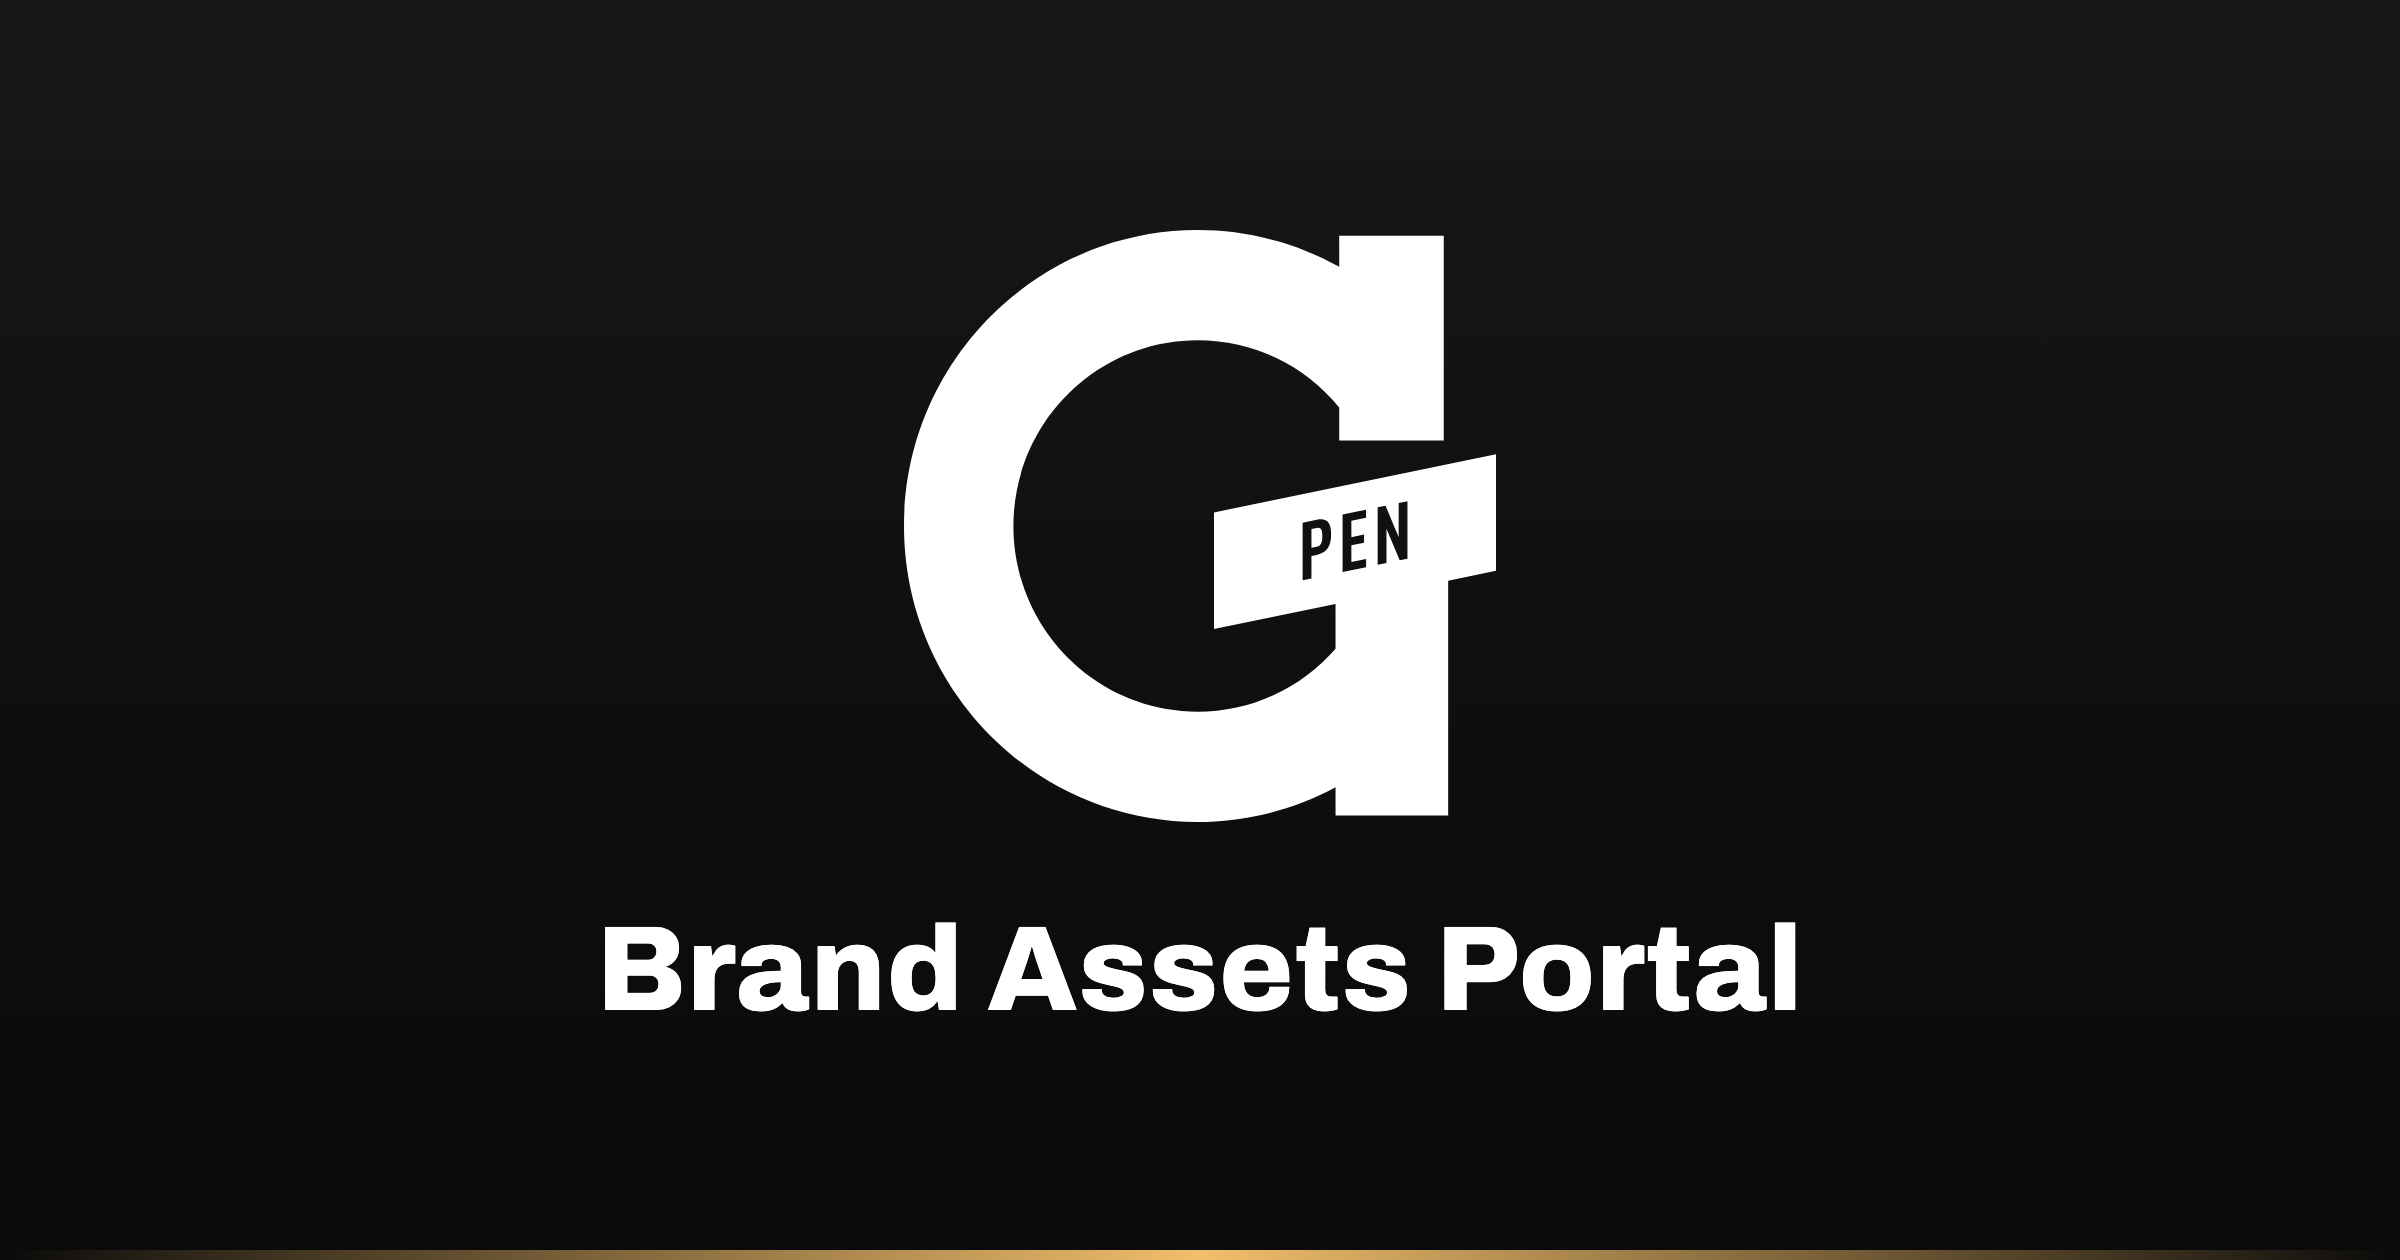
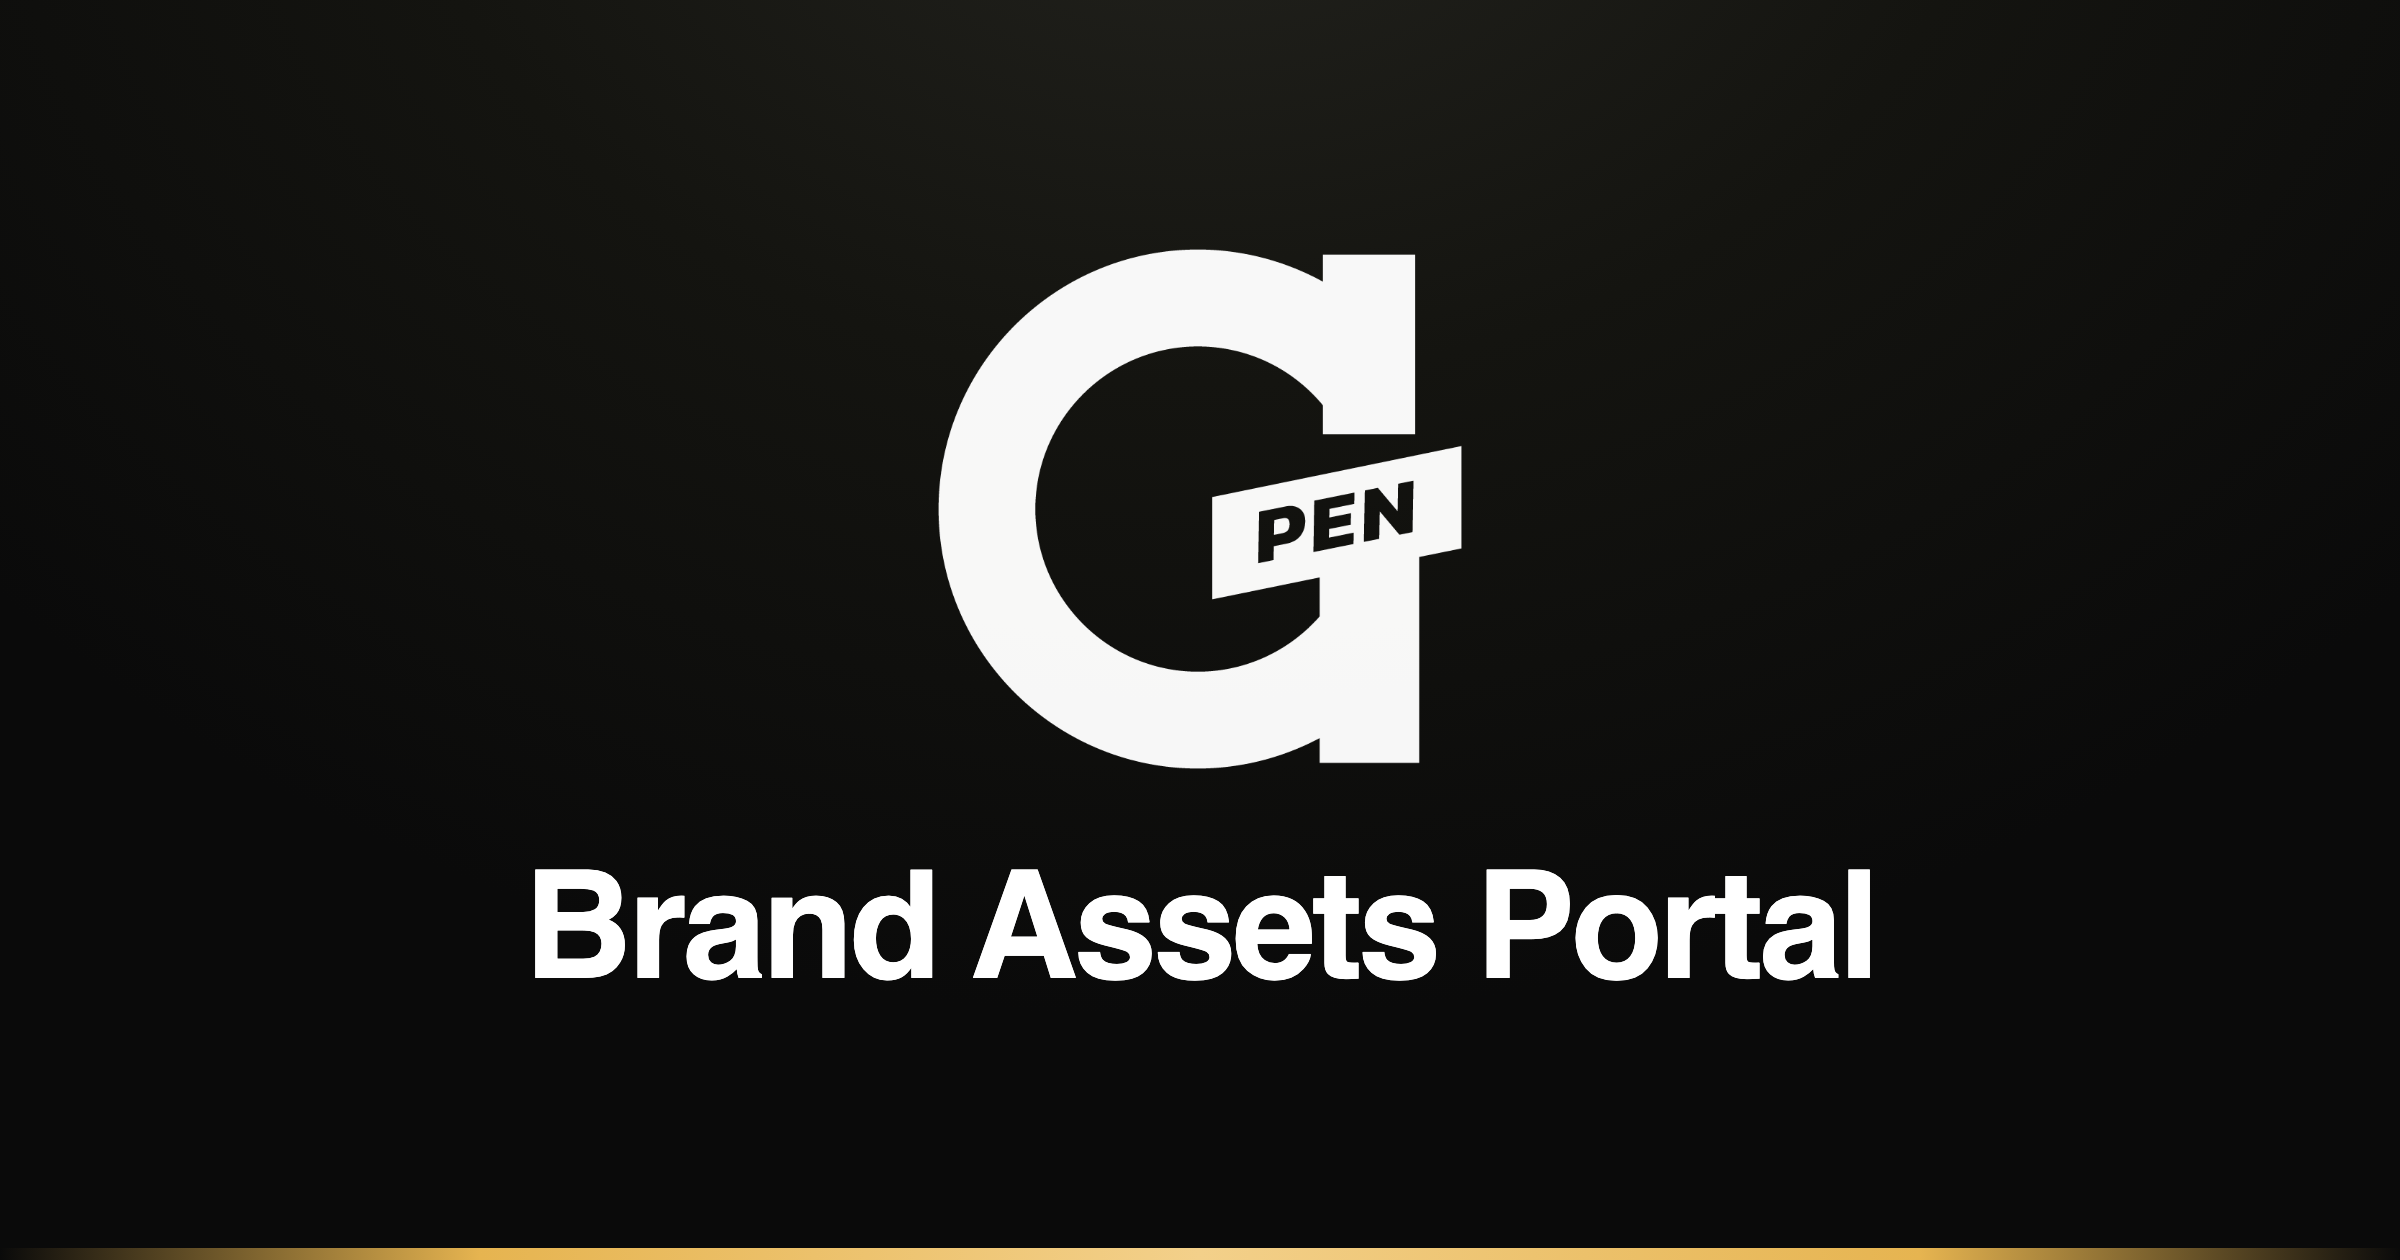
Brand: swap in the new official G Pen brandmark everywhere
- Add official brandmark PNGs (assets/img/gpen-g-black.png / -white.png)
- Hero + nav top-left icon now use the new mark (white on dark)
- Certificate logo (on-page + downloadable canvas) uses the new mark (black on light)
- Adaptive favicon.svg: black on light browser tabs, white on dark
- Regenerate the social share card (og-card.png) with the new logo

diff --git a/assets/js/app.js b/assets/js/app.js
@@ -57,7 +57,9 @@
     return '<svg viewBox="0 0 24 24" fill="none" stroke="currentColor" stroke-width="1.8" stroke-linecap="round" stroke-linejoin="round" aria-hidden="true">' + (paths[name] || "") + "</svg>";
   }
   var typeIcon = { image: "photo", video: "video", vector: "vector", pdf: "file" };
-  var GPEN_LOGO_D = "M51.0273179,27.4819797 L50.1349371,27.6652401 L50.1349371,31.1308145 L48.8040952,27.9382414 L48.0061834,28.1019793 L48.0061834,33.9363994 L48.8988765,33.7518794 L48.8988765,30.2867774 L50.2381504,33.4768314 L51.0273179,33.3152977 L51.0273179,27.4819797 Z M46.8327378,28.3453819 L44.4496204,28.8351784 L44.4496204,34.668339 L46.8327378,34.1785425 L46.8327378,33.3513515 L45.3409082,33.6572579 L45.3409082,31.9613117 L46.624906,31.6980716 L46.624906,30.8708806 L45.3409082,31.1342781 L45.3409082,29.479109 L46.8327378,29.1725729 L46.8327378,28.3453819 Z M43.2878858,30.8460051 C43.2878858,29.6250561 42.8578567,29.1648583 41.8290033,29.3753559 L40.4024432,29.6691394 L40.4024432,35.5016702 L41.2954486,35.3188821 L41.2954486,33.0408794 L41.8290033,32.9306712 C42.9054815,32.7111995 43.2878858,32.0255473 43.2878858,30.8460051 L43.2878858,30.8460051 Z M60,22.7334248 L60,34.540655 L55.1530372,35.5400856 L55.1530372,59.3464656 L43.7374334,59.3464656 L43.7374334,56.4708198 C39.4582215,58.771179 34.6532623,60 29.7546148,60 C13.347456,60 0,46.5426388 0,30.0003936 C0,13.4573612 13.347456,0 29.7546148,0 C34.8095656,0 39.7417847,1.29746495 44.1078144,3.72566564 L44.1078144,0.589298787 L54.7030212,0.589298787 L54.7030212,21.3345684 L44.1078144,21.3345684 L44.1078144,17.988806 C40.5401649,13.6483363 35.3648247,11.1801457 29.7546148,11.1801457 C19.4620211,11.1801457 11.0887879,19.6225633 11.0887879,30.0003936 C11.0887879,40.377909 19.4620211,48.8193819 29.7546148,48.8193819 C35.1423151,48.8193819 40.1819634,46.5057977 43.7374334,42.4367549 L43.7374334,37.8933447 L31.4172694,40.4328557 L31.4172694,28.624366 L60,22.7334248 Z M42.3961296,31.0377673 C42.3961296,31.5536989 42.324302,32.002561 41.8452426,32.1006463 L41.2954486,32.2132161 L41.2954486,30.3130699 L41.8452426,30.1998704 C42.324302,30.1017851 42.3961296,30.5218356 42.3961296,31.0377673 L42.3961296,31.0377673 Z";   // G Pen brand logo path (viewBox 0 0 60 60)
+  var GPEN_LOGO_D = "M51.0273179,27.4819797 L50.1349371,27.6652401 L50.1349371,31.1308145 L48.8040952,27.9382414 L48.0061834,28.1019793 L48.0061834,33.9363994 L48.8988765,33.7518794 L48.8988765,30.2867774 L50.2381504,33.4768314 L51.0273179,33.3152977 L51.0273179,27.4819797 Z M46.8327378,28.3453819 L44.4496204,28.8351784 L44.4496204,34.668339 L46.8327378,34.1785425 L46.8327378,33.3513515 L45.3409082,33.6572579 L45.3409082,31.9613117 L46.624906,31.6980716 L46.624906,30.8708806 L45.3409082,31.1342781 L45.3409082,29.479109 L46.8327378,29.1725729 L46.8327378,28.3453819 Z M43.2878858,30.8460051 C43.2878858,29.6250561 42.8578567,29.1648583 41.8290033,29.3753559 L40.4024432,29.6691394 L40.4024432,35.5016702 L41.2954486,35.3188821 L41.2954486,33.0408794 L41.8290033,32.9306712 C42.9054815,32.7111995 43.2878858,32.0255473 43.2878858,30.8460051 L43.2878858,30.8460051 Z M60,22.7334248 L60,34.540655 L55.1530372,35.5400856 L55.1530372,59.3464656 L43.7374334,59.3464656 L43.7374334,56.4708198 C39.4582215,58.771179 34.6532623,60 29.7546148,60 C13.347456,60 0,46.5426388 0,30.0003936 C0,13.4573612 13.347456,0 29.7546148,0 C34.8095656,0 39.7417847,1.29746495 44.1078144,3.72566564 L44.1078144,0.589298787 L54.7030212,0.589298787 L54.7030212,21.3345684 L44.1078144,21.3345684 L44.1078144,17.988806 C40.5401649,13.6483363 35.3648247,11.1801457 29.7546148,11.1801457 C19.4620211,11.1801457 11.0887879,19.6225633 11.0887879,30.0003936 C11.0887879,40.377909 19.4620211,48.8193819 29.7546148,48.8193819 C35.1423151,48.8193819 40.1819634,46.5057977 43.7374334,42.4367549 L43.7374334,37.8933447 L31.4172694,40.4328557 L31.4172694,28.624366 L60,22.7334248 Z M42.3961296,31.0377673 C42.3961296,31.5536989 42.324302,32.002561 41.8452426,32.1006463 L41.2954486,32.2132161 L41.2954486,30.3130699 L41.8452426,30.1998704 C42.324302,30.1017851 42.3961296,30.5218356 42.3961296,31.0377673 L42.3961296,31.0377673 Z";   // G Pen brand logo path (kept for reference; UI now uses the PNG brandmark)
+  // Official G Pen brandmark, preloaded so the certificate-download canvas can draw it synchronously.
+  var CERT_LOGO = new Image(); CERT_LOGO.src = "assets/img/gpen-g-black.png";
 
   // Category icon for a folder tab, chosen from the folder name (handles canonical
   // names and colorway/type names like "Black / Renders").
@@ -1147,7 +1149,7 @@
     box.innerHTML =
       '<div class="cert" id="cert-card">' +
         '<div class="cert-inner">' +
-          '<div class="cert-logo"><svg viewBox="0 0 60 60" aria-hidden="true"><path fill="currentColor" d="' + GPEN_LOGO_D + '"/></svg></div>' +
+          '<div class="cert-logo"><img src="assets/img/gpen-g-black.png" alt="G Pen" /></div>' +
           '<div class="cert-eyebrow">G Pen · Product Specialist Program</div>' +
           '<h3 class="cert-award">Certificate of Completion</h3>' +
           '<div class="cert-presented">This certifies that</div>' +
@@ -1190,8 +1192,11 @@
     x.strokeStyle = INK; x.lineWidth = 6; x.strokeRect(46, 46, W - 92, H - 92);
     x.strokeStyle = GOLD; x.lineWidth = 2; x.strokeRect(64, 64, W - 128, H - 128);
     x.textAlign = "center"; x.textBaseline = "alphabetic";
-    // logo (viewBox 0 0 60 60) → ~132px, centered near the top
-    x.save(); var s = 132 / 60; x.translate(cx - 66, 96); x.scale(s, s); x.fillStyle = INK; x.fill(new Path2D(GPEN_LOGO_D)); x.restore();
+    // official brandmark PNG → ~132px, centered near the top
+    if (CERT_LOGO.complete && CERT_LOGO.naturalWidth) {
+      var lw = 132, lh = Math.round(lw * (CERT_LOGO.naturalHeight / CERT_LOGO.naturalWidth));
+      x.drawImage(CERT_LOGO, cx - lw / 2, 96, lw, lh);
+    }
     ls("4px"); x.fillStyle = GOLD; x.font = "700 22px Archivo, Arial, sans-serif";
     x.fillText("G PEN · PRODUCT SPECIALIST PROGRAM", cx, 322); ls("0px");
     x.fillStyle = INK; x.font = "800 46px Archivo, Arial, sans-serif"; x.fillText("Certificate of Completion", cx, 388);

diff --git a/index.html b/index.html
@@ -13,7 +13,7 @@
   <meta property="og:description" content="Self-serve G Pen brand &amp; product assets: product photography, lifestyle, logos, video and spec sheets — organized by product, ready to download." />
   <!-- Live on custom domain assets.gpen.com (served from repo root). -->
   <meta property="og:url" content="https://assets.gpen.com/" />
-  <meta property="og:image" content="https://assets.gpen.com/assets/og-card.png?v=20260708" />
+  <meta property="og:image" content="https://assets.gpen.com/assets/og-card.png?v=20260708b" />
   <meta property="og:image:width" content="2400" />
   <meta property="og:image:height" content="1260" />
   <meta property="og:image:type" content="image/png" />
@@ -21,7 +21,7 @@
   <meta name="twitter:card" content="summary_large_image" />
   <meta name="twitter:title" content="Official G Pen Brand Assets Portal" />
   <meta name="twitter:description" content="Self-serve G Pen brand &amp; product assets, organized by product and ready to download." />
-  <meta name="twitter:image" content="https://assets.gpen.com/assets/og-card.png?v=20260708" />
+  <meta name="twitter:image" content="https://assets.gpen.com/assets/og-card.png?v=20260708b" />
 
   <!-- Fonts: Archivo (display + body) — bold, modern sans to match gpen.com -->
   <link rel="preconnect" href="https://fonts.googleapis.com" />
@@ -30,10 +30,10 @@
   <!-- Brand-essentials type specimens (G Pen: Kanit / Lato) -->
   <link href="https://fonts.googleapis.com/css2?family=Kanit:wght@500;700&family=Lato:wght@400;700&display=swap" rel="stylesheet" />
 
-  <!-- Favicon: official G Pen brandmark (same asset gpen.com uses) -->
-  <link rel="icon" type="image/svg+xml" href="assets/favicon.svg?v=1" />
+  <!-- Favicon: official G Pen brandmark (adapts: black on light tabs, white on dark) -->
+  <link rel="icon" type="image/svg+xml" href="assets/favicon.svg?v=2" />
 
-  <link rel="stylesheet" href="assets/css/styles.css?v=20260708i" />
+  <link rel="stylesheet" href="assets/css/styles.css?v=20260708j" />
 </head>
 <body>
   <h1 class="sr-only">G Pen Brand Assets Portal</h1>
@@ -42,7 +42,7 @@
   <header class="nav">
     <div class="wrap nav-inner">
       <div class="brandmark" id="home-link" role="button" tabindex="0" aria-label="Back to home">
-        <span class="sq"><svg viewBox="0 0 24 24" fill="none" stroke-width="1.8" stroke-linecap="round" stroke-linejoin="round"><path d="m12 2 9 5-9 5-9-5 9-5Z"/><path d="m3 12 9 5 9-5"/><path d="m3 17 9 5 9-5"/></svg></span>
+        <span class="sq"><img src="assets/img/gpen-g-white.png" alt="" /></span>
         <span class="lib">G Pen Brand Assets Portal</span>
       </div>
       <div class="nav-actions">
@@ -56,7 +56,7 @@
   <section class="hero" id="hero">
     <div class="wrap">
       <div class="hero-brands">
-        <img class="hero-logo gpen" src="https://cdn.shopify.com/s/files/1/0185/1576/files/G_Logo.svg" alt="G Pen" />
+        <img class="hero-logo gpen" src="assets/img/gpen-g-black.png" alt="G Pen" />
       </div>
       <div class="hero-eyebrow">Official Brand &amp; Product Assets</div>
       <h1 id="hero-tagline">Everything you need, in one place.</h1>
@@ -162,7 +162,7 @@
   </button>
 
   <script src="assets/data/synced.js?v=1783537191048"></script>
-  <script src="assets/data/assets.js?v=20260708i"></script>
-  <script src="assets/js/app.js?v=20260708i"></script>
+  <script src="assets/data/assets.js?v=20260708j"></script>
+  <script src="assets/js/app.js?v=20260708j"></script>
 </body>
 </html>

diff --git a/assets/css/styles.css b/assets/css/styles.css
@@ -53,6 +53,7 @@ a { color: inherit; text-decoration: none; }
 .brandmark { display: flex; align-items: center; gap: 11px; cursor: pointer; }
 .brandmark .sq { width: 28px; height: 28px; background: var(--ink); border-radius: 7px; display: flex; align-items: center; justify-content: center; }
 .brandmark .sq svg { width: 16px; height: 16px; stroke: #fff; }
+.brandmark .sq img { width: 17px; height: 17px; display: block; }
 .brandmark .lib { font-size: 12px; letter-spacing: 0.16em; text-transform: uppercase; color: var(--stone); font-weight: 700; transition: color 0.14s; }
 .brandmark:hover .lib { color: var(--ink); }
 .nav-actions { display: flex; align-items: center; gap: 18px; }
@@ -776,6 +777,7 @@ a.logo-tile { cursor: pointer; }
 .cert-inner::before { content: ""; position: absolute; inset: 10px; border: 1.5px solid #C69A3C; pointer-events: none; }
 .cert-inner > * { position: relative; }
 .cert-logo svg { width: 60px; height: 60px; color: var(--ink); }
+.cert-logo img { width: 60px; height: 60px; display: block; margin: 0 auto; }
 .cert-eyebrow { margin-top: 12px; font-size: 11px; letter-spacing: 0.2em; text-transform: uppercase; font-weight: 800; color: #A9781F; }
 .cert-award { font-family: var(--serif); font-size: clamp(26px, 4.6vw, 40px); font-weight: 800; margin: 12px 0 0; color: var(--ink); }
 .cert-presented { margin-top: 18px; font-size: 14px; font-style: italic; color: var(--stone); }
